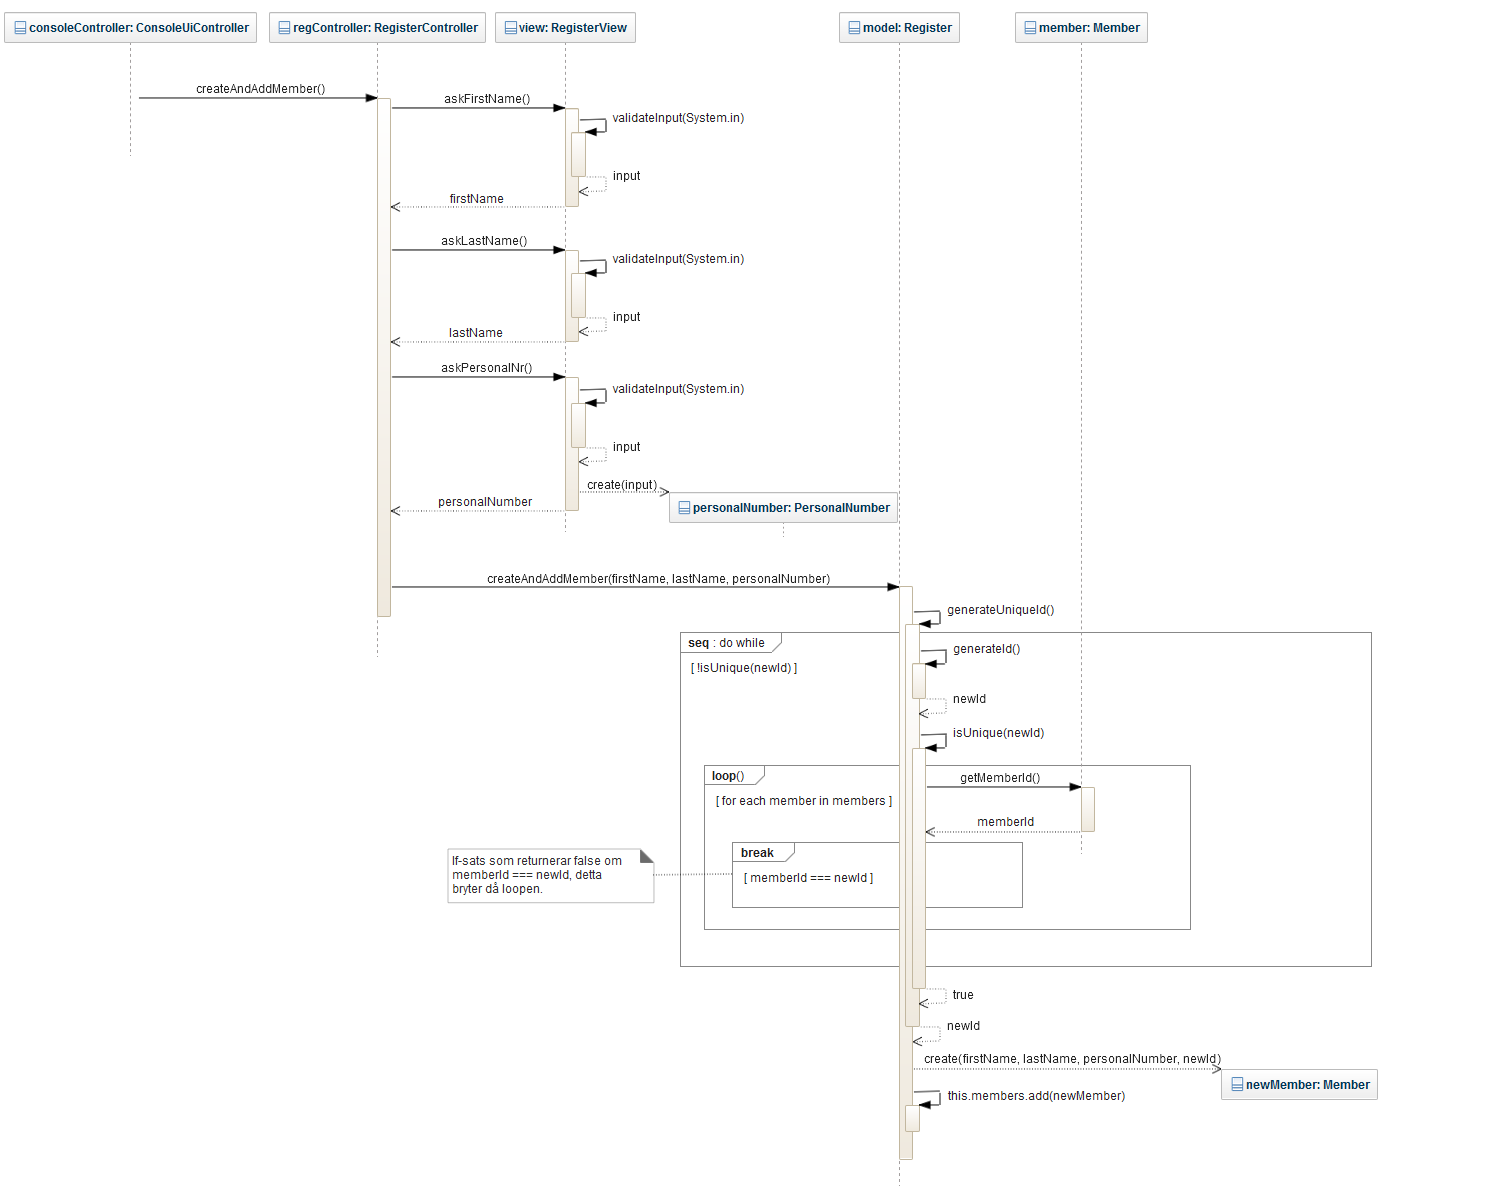
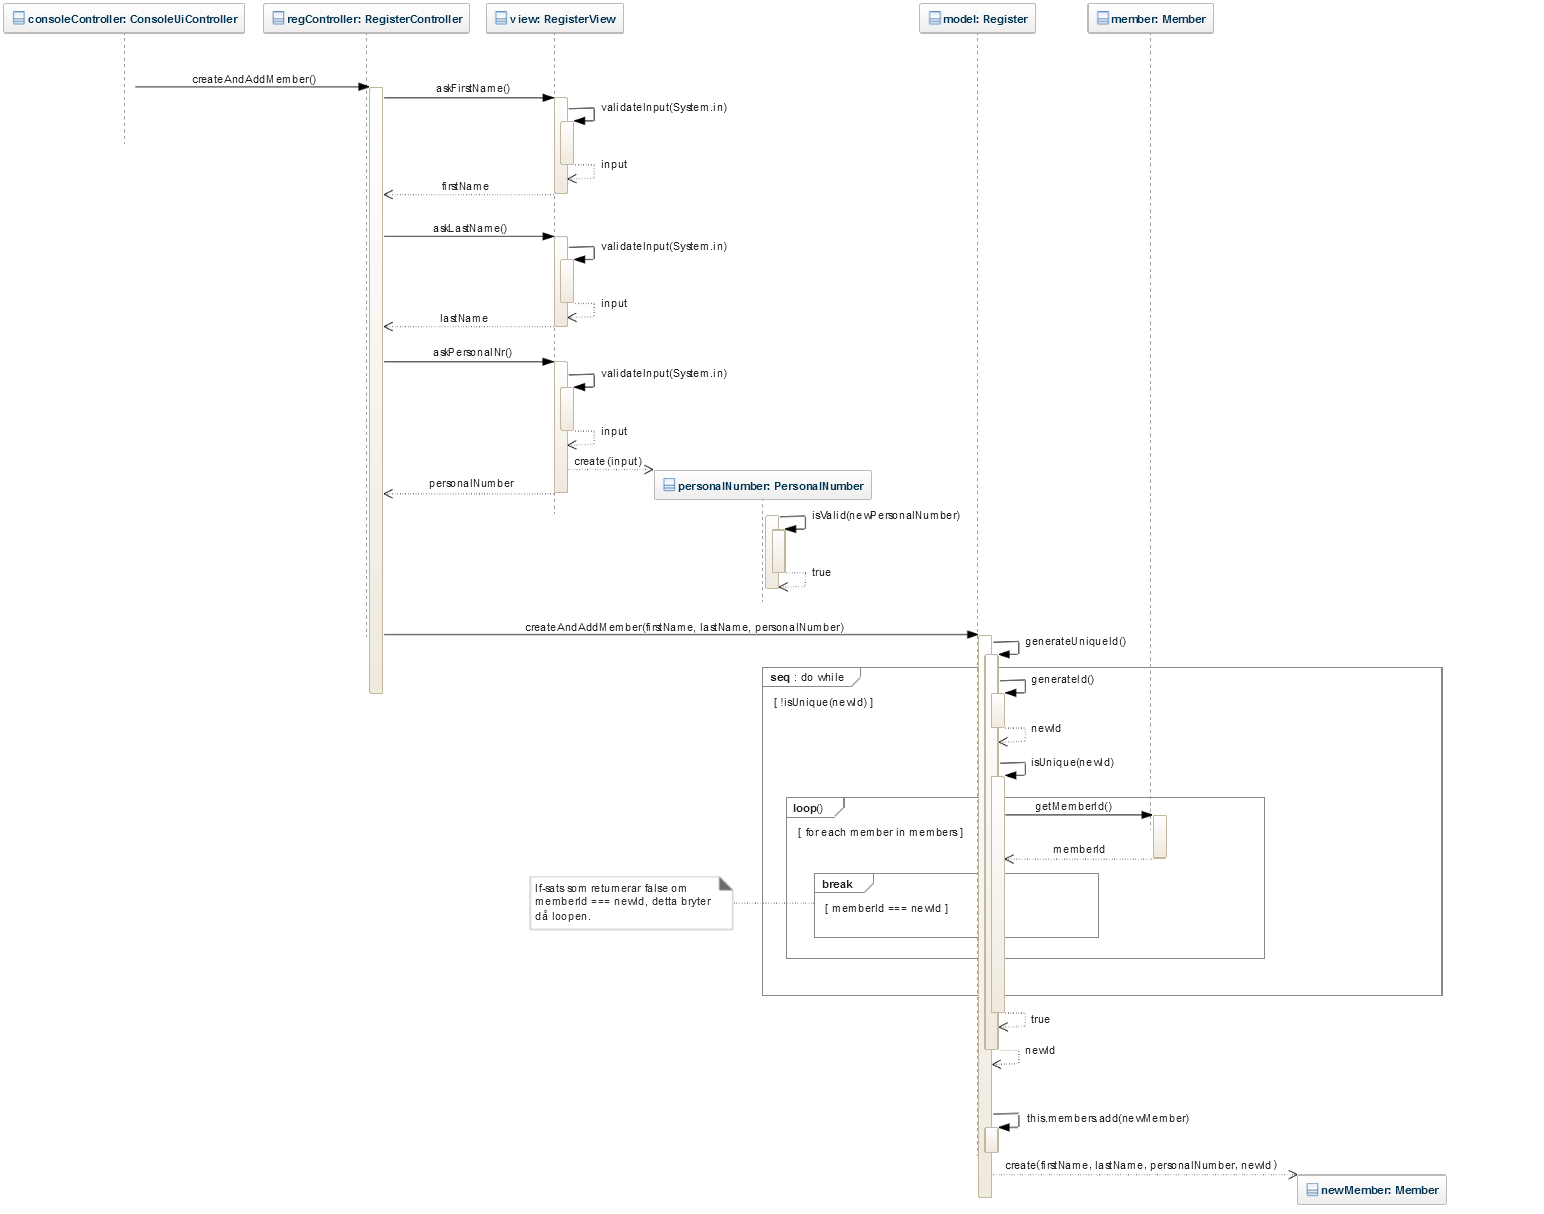
CompletionFix: Added updated class and sequence diagrams.

diff --git a/design.md b/design.md
@@ -14,10 +14,10 @@ The application uses the model-view-controller (MVC) architectural pattern. The 
 
 Please provide at least one class diagram according to the assignment requirments.
 
-![Final class diagram](img/class-diagram.jpeg)
+![Final class diagram](img/A2-new-class-diagram.png)
 
 ### Sequence Diagram
 
 Please provide at least one sequence diagram according to the assignment requirments.
 
-![Final sequence diagram](img/sequence-diagram.jpeg)
+![Final sequence diagram](img/A2-new-sequence-diagram.png)
